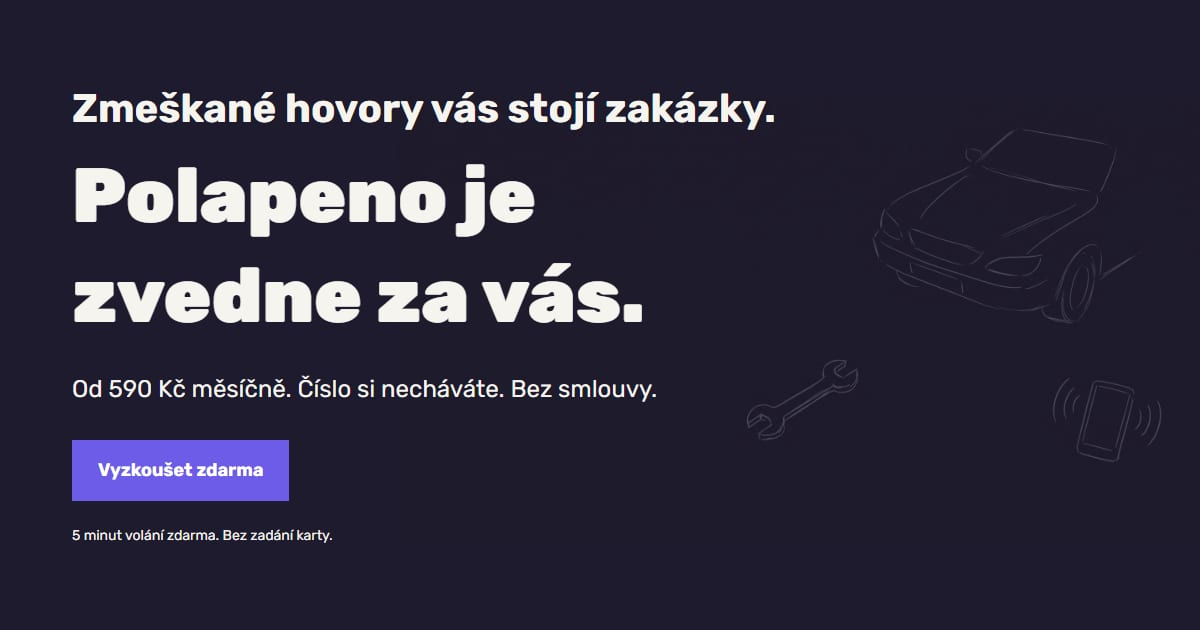
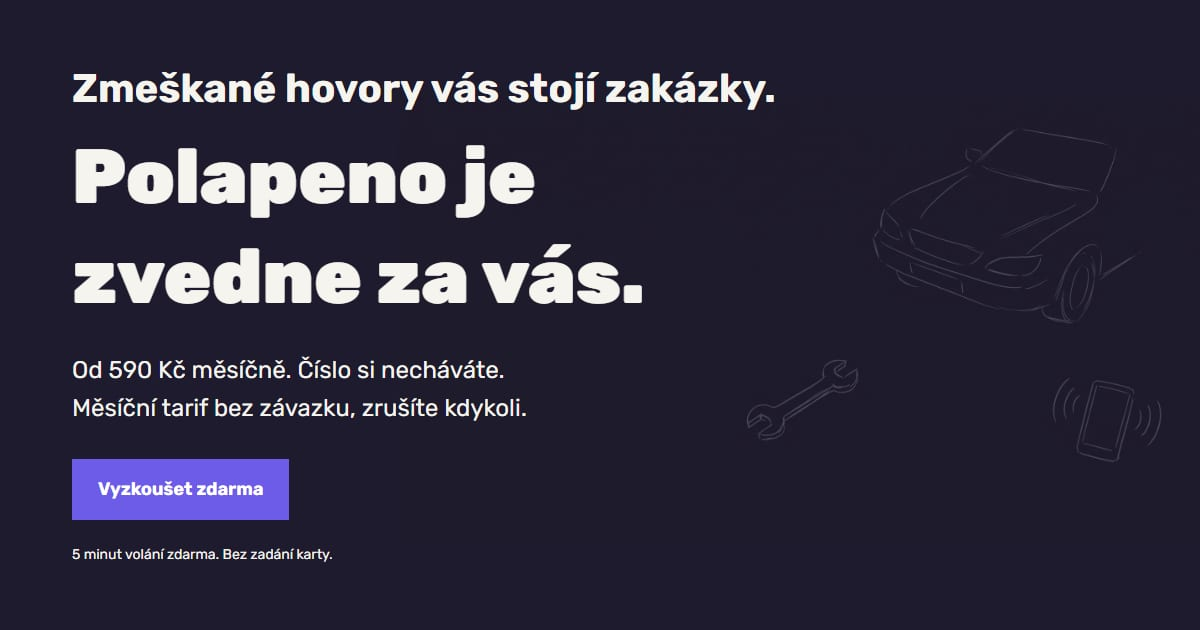
„Bez smlouvy“ → „Měsíční tarif bez závazku, zrušíte kdykoli.“ v heru a §6, nový og:image
Claim v heru má max. šířku, aby delší text nezasahoval do kresby.

Changed region(s): [[0.0617, 0.1206, 0.6475, 0.5127], [0.0617, 0.6937, 0.2775, 0.9048], [0.0617, 0.573, 0.555, 0.6635]]

diff --git a/src/styles/main.css b/src/styles/main.css
@@ -254,7 +254,9 @@ h3 {
 }
 
 .hero-claim {
+  max-width: 36ch; /* aby delší claim nezasahoval do kresby vpravo */
   font-size: var(--fs-lead);
+  text-wrap: balance;
 }
 
 .hero-cta {
